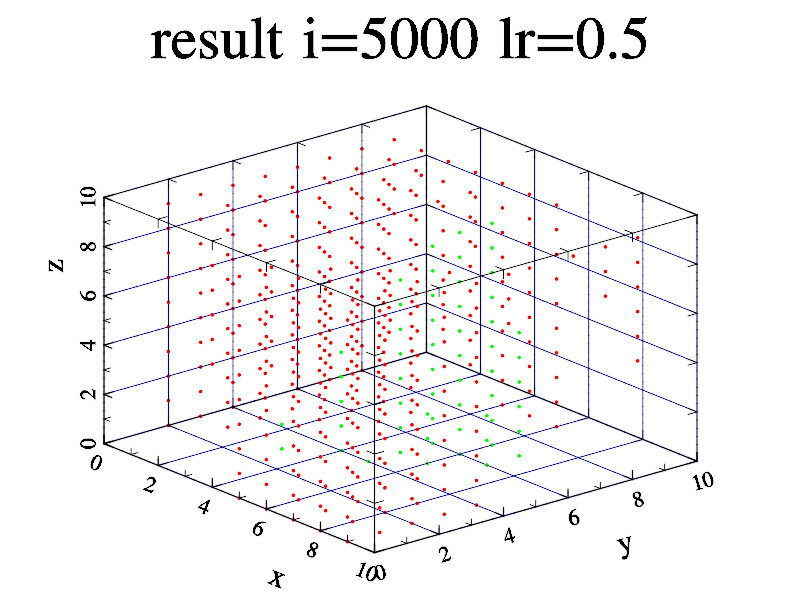
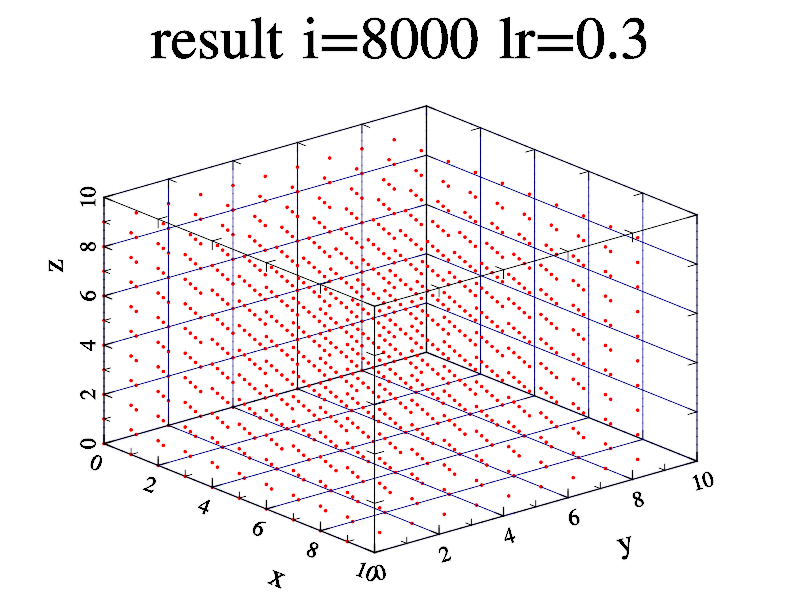
add data ,error plot change

diff --git a/src/neural.cpp b/src/neural.cpp
@@ -5,7 +5,11 @@
 using namespace std;
 using namespace arma;
 
-nn::nn(){
+nn::nn(int ni, int nh){
+	input_num = ni;
+	hidden_num = nh;
+	output_num = 2;
+	scale = 1;
 	input = zeros(input_num+1);
 
 	randomInit(); //random hidden & output weight
@@ -28,7 +32,12 @@ nn::nn(){
 	odels = zeros(hidden_num+1, output_num); //output delta
 	ods = zeros(output_num);
 	hds = zeros(hidden_num+1);
+
+	oerr = zeros(output_num);
+	oerrs = zeros(output_num);
+
 	learning_rate = dlearning_rate;
+
 }
 
 
@@ -85,6 +94,7 @@ void nn::test(){
 void nn::clear_dels(){
 	hdels.zeros();
 	odels.zeros();
+	oerrs.zeros();
 	ods.zeros();
 	hds.zeros();
 }
@@ -92,6 +102,7 @@ void nn::clear_dels(){
 void nn::cal_del(){
 	//output to hidden
 	for(int i=0; i<output_num; ++i){
+		oerr(i) = (de(i) - oo(i));
 		od(i) = (de(i) - oo(i)) * dactivation(os(i));
 		for(int j=0; j<hidden_num+1; ++j){
 			odel(j,i) =
@@ -123,9 +134,9 @@ void nn::wupdate(){
 void nn::showsd(){
 	double sod=0, shd=0;
 	for(int i=0; i<output_num; ++i)
-		sod += abs(ods(i))*1000;
+		sod += abs(oerrs(i));
 	for(int i=0; i<hidden_num+1; ++i)
-		shd += abs(hds(i))*1000;
+		shd += abs(hds(i));
 	cout<< "error sum at output = " << setw(8) << sod
 		<< " at hidden = " << setw(8) << shd << endl;
 	e.push_back(sod);
@@ -133,12 +144,13 @@ void nn::showsd(){
 
 
 void nn::train(int iteration){
+	int size = _s[0].feature.size();
 	for(int j=0; j<iteration; ++j){
 		clear_dels();
 		for(int i=0; i<(int)_s.size(); i++){
 			//set input
-			input.at(0) = _s[i].feature[0]/10;
-			input.at(1) = _s[i].feature[1]/10;
+			for(int k=0; k<size; ++k)
+				input.at(k) = _s[i].feature[k]*scale;
 			//set desire output
 			de.fill(0);
 			de.at( _s[i].l ) = 1;
@@ -147,6 +159,7 @@ void nn::train(int iteration){
 			//back propagation
 			cal_del();
 			//sum of error
+			oerrs += oerr;
 			ods += od;
 			hds += hd;
 			odels += odel;

diff --git a/src/main.cpp b/src/main.cpp
@@ -72,8 +72,8 @@ double drawResult(nn& n,string title)
 		for(double y=0; y<size; y+=0.1){
 			xdat.a[0] = x;
 			ydat.a[0] = y;
-			n.input.at(0) = x/10;
-			n.input.at(1) = y/10;
+			n.input.at(0) = x*n.scale;
+			n.input.at(1) = y*n.scale;
 			n.test();
 			if(n.oo[0] >= 0.99)
 				label = 0;
@@ -215,40 +215,47 @@ int main(int argc,char* argv[]){
 	return 0;
 	*/
 	string path = argv[1];
-	nn n;
-	if(argc != 4){
-		cout << " data,iteration,rate " << endl;
+	nn n(atoi(argv[4]),atoi(argv[5]));
+	if(argc != 7){
+		cout << " data,iteration,rate,ni,hi,scale " << endl;
 		return -1;
 	}
 	if( !n.readSample(path) ){
 		cout << "open fail : " << argv[1] << endl;
 		return -1;
 	}
-
+	n.scale = atof(argv[6]);
 	n.activation = logistic;
 	n.dactivation = dlogistic;
 	n.learning_rate = atof( argv[3] );
 
 	n.train( atoi(argv[2]) );
 
+	drawError(n,atoi(argv[2]),"error");
+
+	Mat e = imread("e.png");
+
+	if(n.getSample()[0].feature.size() > 2 ){
+		imshow("e",e);
+		waitKey(0);
+		return 0;
+	}
 	string ta = "result i=";
 	string tb = argv[2];
 	string tc = " lr=";
 	string td = argv[3];
 
-	drawSample3d(n.getSample(),"s3d.png");
+	drawSample(n.getSample());
 	ta = ta+tb+tc+td;
-	drawResult3d(n,ta,"r3d.png");
+	drawResult(n,ta);
 
-	drawError(n,atoi(argv[2]),"error");
 
-	Mat m = imread("s3d.png");
+	Mat m = imread("s.png");
 	imshow("s",m);
-	Mat r = imread("r3d.png");
+	Mat r = imread("r.png");
 	imshow("r",r);
-	Mat e = imread("e.png");
 	imshow("e",e);
 	waitKey(0);
-
+	return 0;
 }
 

diff --git a/src/neural.hpp b/src/neural.hpp
@@ -3,9 +3,6 @@
 #include <string>
 #include "sample.hpp"
 
-#define input_num 3
-#define hidden_num 10
-#define output_num 2
 #define dlearning_rate 0.2
 
 //input
@@ -14,7 +11,7 @@
 
 class nn{
 public:
-	nn();
+	nn(int ni,int nh);
 	void randomInit();
 
 	bool readSample(std::string& path);
@@ -48,10 +45,14 @@ public:
 
 	arma::mat de; //desire output : output_num
 	//train matrix
+
 	arma::mat od; //output_num
 	arma::mat hd; //hidden_num+1
 	arma::mat odel; //hidden_num+1 output_num
 	arma::mat hdel; //input_num+1 hidden_num+1
+
+	arma::mat oerr; //output_num
+	arma::mat oerrs; //output_num
 
 	arma::mat ods; //output_num
 	arma::mat hds; //hidden_num+1
@@ -60,8 +61,12 @@ public:
 
 	sample& getSample();
 	std::vector<double> e;
+	double scale;
 
 private:
+	int input_num;
+	int hidden_num;
+	int output_num;
 	sample _s;
 
 };

diff --git a/src/sample.cpp b/src/sample.cpp
@@ -9,7 +9,6 @@ using namespace std;
 
 sample::sample(){
 
-
 }
 
 data_t& sample::operator[](int i){
